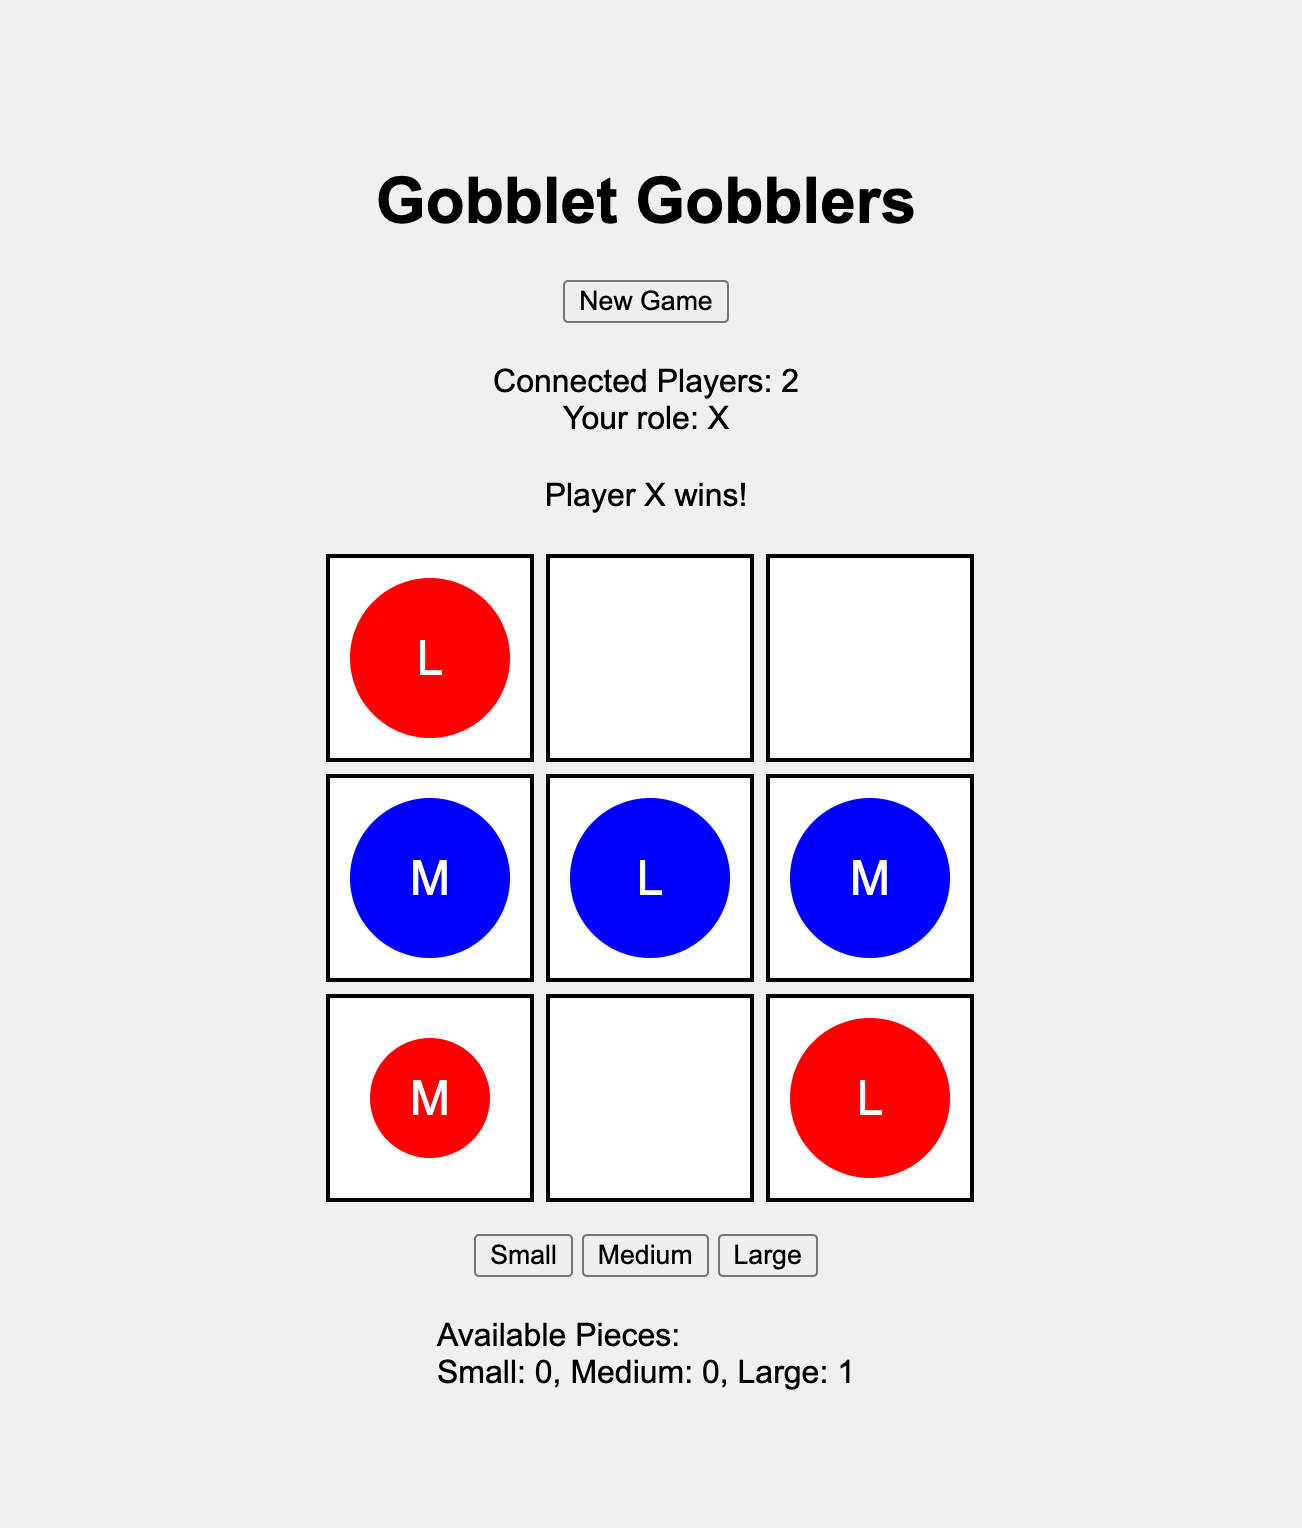
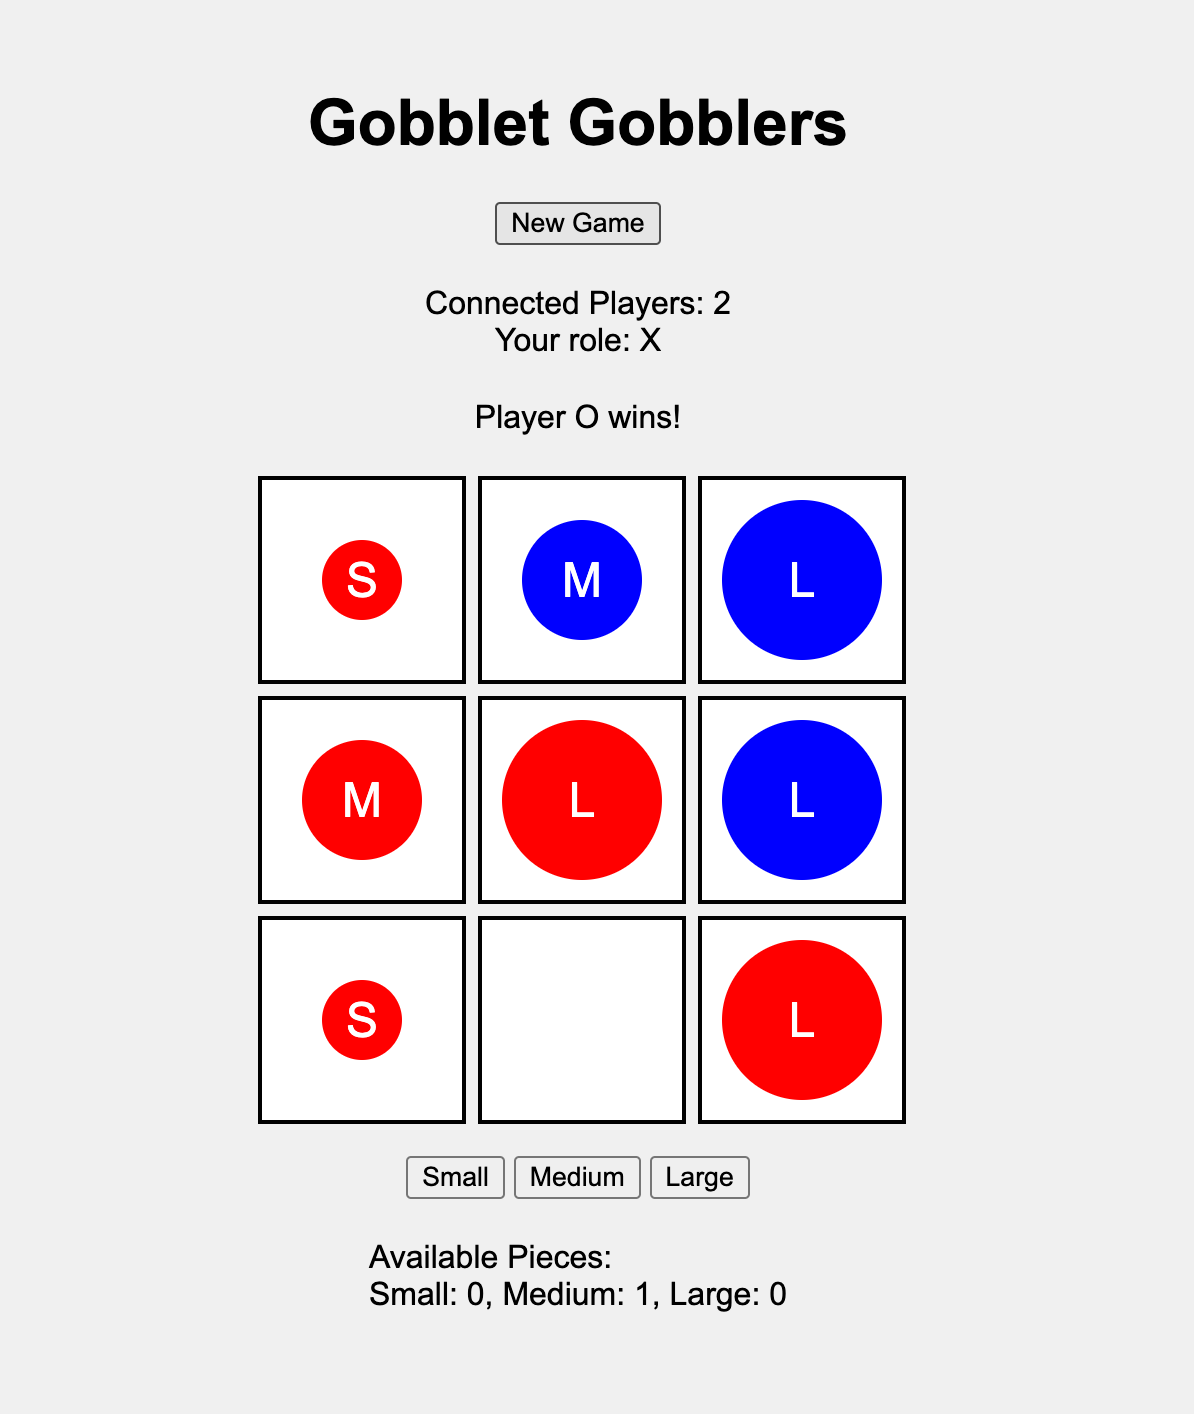
Fix duplicate pieces on moves

Changed region(s): [[0.2169, 0.0622, 0.7747, 0.9335], [0.6508, 0.5601, 0.6817, 0.5912]]

diff --git a/client/game.js b/client/game.js
@@ -1,124 +1,163 @@
 class GobbletGobblers {
-    constructor() {
-        this.board = Array(3).fill().map(() => Array(3).fill([]));
-        this.currentPlayer = 'X';
+  constructor() {
+    this.board = [
+      [[], [], []],
+      [[], [], []],
+      [[], [], []],
+    ];
+    this.currentPlayer = "X";
+    this.gameStarted = false;
+    this.role = null;
+    this.selectedSize = null;
+    this.availablePieces = { small: 2, medium: 2, large: 2 };
+    this.ws = new WebSocket("ws://localhost:8080");
+
+    this.ws.onopen = () => console.log("Connected to the server");
+    this.ws.onmessage = this.handleMessage.bind(this);
+    this.addNewGameButtonListener();
+    this.addPieceSelectionListeners();
+    this.createBoard();
+    this.updateAvailablePiecesDisplay();
+  }
+
+  addNewGameButtonListener() {
+    const newGameButton = document.getElementById("new-game-button");
+    newGameButton.addEventListener("click", () => {
+      this.ws.send(JSON.stringify({ type: "restart" }));
+      document.getElementById("status").textContent = "Restarting game...";
+    });
+  }
+
+  addPieceSelectionListeners() {
+    const buttons = document.querySelectorAll(".piece-btn");
+    buttons.forEach((button) => {
+      button.addEventListener("click", () => {
+        this.selectedSize = button.getAttribute("data-size");
+        document.getElementById(
+          "status"
+        ).textContent = `Selected size: ${this.selectedSize}. Place your piece.`;
+      });
+    });
+  }
+
+  updateAvailablePiecesDisplay() {
+    const availablePiecesDiv = document.getElementById("available-pieces");
+    availablePiecesDiv.innerHTML = `Available Pieces: <br> Small: ${this.availablePieces.small}, Medium: ${this.availablePieces.medium}, Large: ${this.availablePieces.large}`;
+  }
+
+  resetBoard() {
+    this.board = [
+      [[], [], []],
+      [[], [], []],
+      [[], [], []],
+    ];
+    this.createBoard();
+    this.updateAvailablePiecesDisplay();
+  }
+
+  createBoard() {
+    const gameBoard = document.getElementById("game-board");
+    gameBoard.innerHTML = "";
+    this.board.forEach((row, i) => {
+      row.forEach((cell, j) => {
+        const cellDiv = document.createElement("div");
+        cellDiv.className = "cell";
+        cellDiv.dataset.row = i;
+        cellDiv.dataset.col = j;
+        cellDiv.addEventListener("click", () => this.makeMove(i, j));
+        gameBoard.appendChild(cellDiv);
+        this.updateCell(i, j);
+      });
+    });
+  }
+
+  updateCell(row, col) {
+    const cell = this.board[row][col];
+    const cellDiv = document.querySelector(
+      `[data-row="${row}"][data-col="${col}"]`
+    );
+    cellDiv.innerHTML = cell
+      .map(
+        (piece) =>
+          `<div class="${piece.size} ${
+            piece.player
+          }">${piece.size[0].toUpperCase()}</div>`
+      )
+      .join("");
+  }
+
+  makeMove(row, col) {
+    if (
+      this.gameStarted &&
+      this.selectedSize &&
+      this.availablePieces[this.selectedSize] > 0
+    ) {
+      this.ws.send(
+        JSON.stringify({ type: "move", row, col, size: this.selectedSize })
+      );
+    }
+  }
+
+  handleMessage(message) {
+    const data = JSON.parse(message.data);
+    console.log(data);
+    switch (data.type) {
+      case "reset":
+        this.resetBoard();
+        document.getElementById(
+          "status"
+        ).textContent = `Game restarted. It's now ${this.currentPlayer}'s turn.`;
+        break;
+      case "roleAssignment":
+        this.role = data.role;
+        document.getElementById(
+          "role-info"
+        ).textContent = `Your role: ${this.role}`;
+        break;
+      case "start":
+        this.gameStarted = true;
+        this.currentPlayer = data.currentPlayer;
+        document.getElementById(
+          "status"
+        ).textContent = `Game started! It's ${this.currentPlayer}'s turn.`;
+        break;
+      case "move":
+        this.board[data.row][data.col].push(data.piece);
+        this.updateCell(data.row, data.col);
+        this.updateAvailablePiecesDisplay();
+        document.getElementById(
+          "status"
+        ).textContent = `It's now ${data.currentPlayer}'s turn.`;
+        break;
+      case "updatePieces":
+        this.availablePieces = data.pieces;
+        this.updateAvailablePiecesDisplay();
+        break;
+      case "win":
         this.gameStarted = false;
-        this.role = null;
-        this.selectedSize = null;
-        this.availablePieces = { 'small': 2, 'medium': 2, 'large': 2 };
-        this.ws = new WebSocket('ws://localhost:8080');
-        
-        this.ws.onopen = () => console.log("Connected to the server");
-        this.ws.onmessage = this.handleMessage.bind(this);
-        this.addNewGameButtonListener();
-        this.addPieceSelectionListeners();
-        this.createBoard();
-        this.updateAvailablePiecesDisplay();
+        document.getElementById(
+          "status"
+        ).textContent = `Player ${data.winner} wins!`;
+        break;
+      case "tie":
+        this.gameStarted = false;
+        document.getElementById("status").textContent = `The game is a tie!`;
+        break;
+      case "updateTurn":
+        this.currentPlayer = data.currentPlayer;
+        document.getElementById(
+          "status"
+        ).textContent = `It's now ${this.currentPlayer}'s turn.`;
+        break;
+      case "playersCount":
+        document.getElementById(
+          "players-count"
+        ).textContent = `Connected Players: ${data.count}`;
+        break;
     }
-
-    addNewGameButtonListener() {
-        const newGameButton = document.getElementById('new-game-button');
-        newGameButton.addEventListener('click', () => {
-            this.ws.send(JSON.stringify({ type: 'restart' }));
-            document.getElementById('status').textContent = 'Restarting game...';
-        });
-    }
-
-    addPieceSelectionListeners() {
-        const buttons = document.querySelectorAll('.piece-btn');
-        buttons.forEach(button => {
-            button.addEventListener('click', () => {
-                this.selectedSize = button.getAttribute('data-size');
-                document.getElementById('status').textContent = `Selected size: ${this.selectedSize}. Place your piece.`;
-            });
-        });
-    }
-
-    updateAvailablePiecesDisplay() {
-        const availablePiecesDiv = document.getElementById('available-pieces');
-        availablePiecesDiv.innerHTML = `Available Pieces: <br> Small: ${this.availablePieces.small}, Medium: ${this.availablePieces.medium}, Large: ${this.availablePieces.large}`;
-    }
-    
-    resetBoard() {
-        this.board = Array(3).fill().map(() => Array(3).fill([]));
-        this.createBoard();
-        this.updateAvailablePiecesDisplay();
-    }
-
-    createBoard() {
-        const gameBoard = document.getElementById('game-board');
-        gameBoard.innerHTML = '';
-        this.board.forEach((row, i) => {
-            row.forEach((cell, j) => {
-                const cellDiv = document.createElement('div');
-                cellDiv.className = 'cell';
-                cellDiv.dataset.row = i;
-                cellDiv.dataset.col = j;
-                cellDiv.addEventListener('click', () => this.makeMove(i, j));
-                gameBoard.appendChild(cellDiv);
-                this.updateCell(i, j);
-            });
-        });
-    }
-
-    updateCell(row, col) {
-        const cell = this.board[row][col];
-        const cellDiv = document.querySelector(`[data-row="${row}"][data-col="${col}"]`);
-        cellDiv.innerHTML = cell.map(piece => `<div class="${piece.size} ${piece.player}">${piece.size[0].toUpperCase()}</div>`).join('');
-    }
-
-    makeMove(row, col) {
-        if (this.gameStarted && this.selectedSize && this.availablePieces[this.selectedSize] > 0) {
-            this.ws.send(JSON.stringify({ type: 'move', row, col, size: this.selectedSize }));
-        }
-    }
-
-    handleMessage(message) {
-        const data = JSON.parse(message.data);
-        console.log(data);
-        switch (data.type) {
-            case 'reset':
-                this.resetBoard();
-                document.getElementById('status').textContent = `Game restarted. It's now ${this.currentPlayer}'s turn.`;
-                break;
-            case 'roleAssignment':
-                this.role = data.role;
-                document.getElementById('role-info').textContent = `Your role: ${this.role}`;
-                break;
-            case 'start':
-                this.gameStarted = true;
-                this.currentPlayer = data.currentPlayer;
-                document.getElementById('status').textContent = `Game started! It's ${this.currentPlayer}'s turn.`;
-                break;
-            case 'move':
-                this.board[data.row][data.col].push(data.piece);
-                this.updateCell(data.row, data.col);
-                this.updateAvailablePiecesDisplay();
-                document.getElementById('status').textContent = `It's now ${data.currentPlayer}'s turn.`;
-                break;
-            case 'updatePieces':
-                this.availablePieces = data.pieces;
-                this.updateAvailablePiecesDisplay();
-                break;
-            case 'win':
-                this.gameStarted = false;
-                document.getElementById('status').textContent = `Player ${data.winner} wins!`;
-                break;
-            case 'tie':
-                this.gameStarted = false;
-                document.getElementById('status').textContent = `The game is a tie!`;
-                break;
-            case 'updateTurn':
-                this.currentPlayer = data.currentPlayer;
-                document.getElementById('status').textContent = `It's now ${this.currentPlayer}'s turn.`;
-                break;
-            case 'playersCount':
-                document.getElementById('players-count').textContent = `Connected Players: ${data.count}`;
-                break;
-        }
-    }
+  }
 }
 
-document.addEventListener('DOMContentLoaded', () => {
-    new GobbletGobblers();
+document.addEventListener("DOMContentLoaded", () => {
+  new GobbletGobblers();
 });
